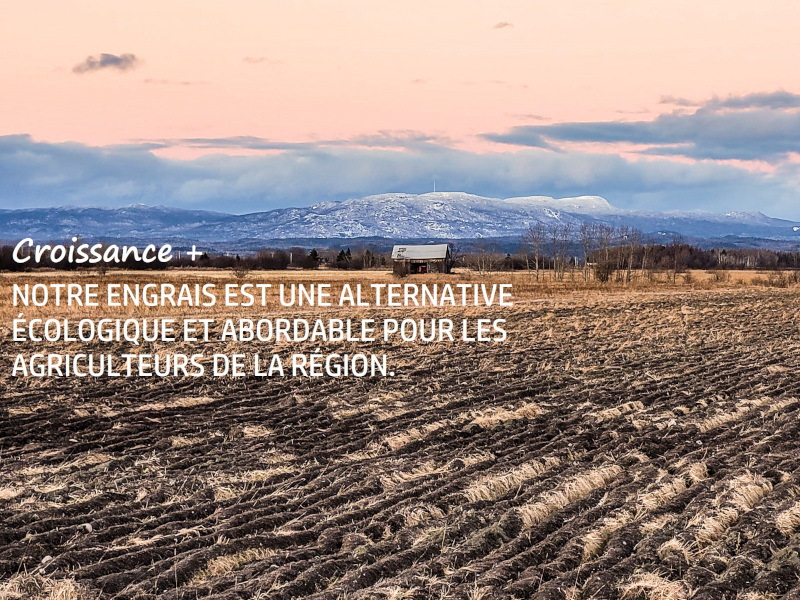
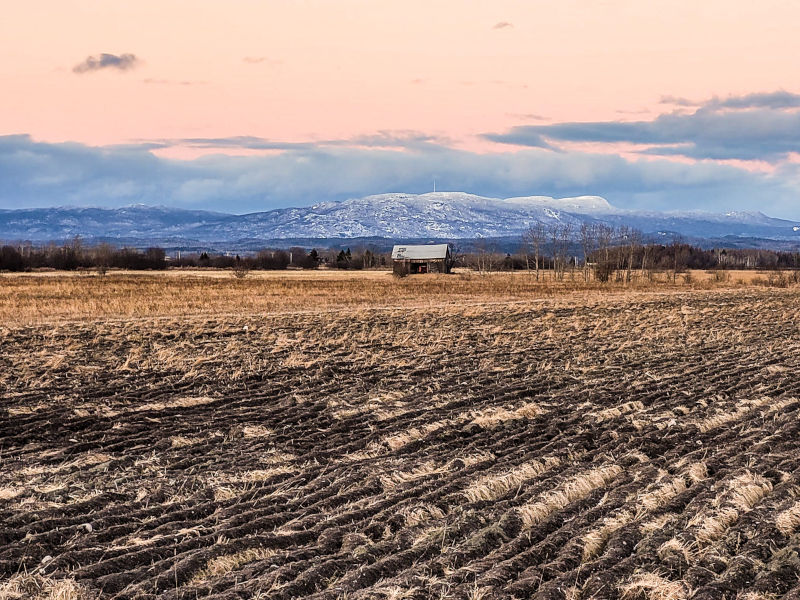
add new images, still missing one product image. Add new carousel part.

Changed region(s): [[0.0, 0.39, 0.6562, 0.63]]

diff --git a/index.html b/index.html
@@ -117,9 +117,9 @@
           <div class="container">
             <div class="row justify-content-start">
               <div class="col-lg-8">
-                <p class="text-primary text-uppercase fw-bold mb-2">
+                <!-- <p class="text-primary text-uppercase fw-bold mb-2">
                   // Recyclage de Gypse
-                </p>
+                </p> -->
                 <h1 class="display-1 text-light mb-4 animated slideInDown">
                   Revaloriser la matière, une solution durable.
                 </h1>
@@ -132,22 +132,21 @@
           </div>
         </div>
       </div>
-      <!-- <div class="owl-carousel-item position-relative">
+      <div class="owl-carousel-item position-relative">
                 <img class="img-fluid" src="img/carousel-2.jpg" alt="">
                 <div class="owl-carousel-inner">
                     <div class="container">
                         <div class="row justify-content-start">
                             <div class="col-lg-8">
-                                <p class="text-primary text-uppercase fw-bold mb-2">// The Best Bakery</p>
-                                <h1 class="display-1 text-light mb-4 animated slideInDown">We Bake With Passion</h1>
-                                <p class="text-light fs-5 mb-4 pb-3">Vero elitr justo clita lorem. Ipsum dolor sed stet
-                                    sit diam rebum ipsum.</p>
-                                <a href="" class="btn btn-primary rounded-pill py-3 px-5">Read More</a>
+                                <h1 class="display-1 text-light mb-4 animated slideInDown">Le respect de l'environnement, un engagement brillant.</h1>
+                                <!-- <p class="text-light fs-5 mb-4 pb-3">Vero elitr justo clita lorem. Ipsum dolor sed stet
+                                    sit diam rebum ipsum.</p> -->
+                                <a href="#about" class="btn btn-primary rounded-pill py-3 px-5">En savoir plus</a>
                             </div>
                         </div>
                     </div>
                 </div>
-            </div> -->
+            </div>
     </div>
   </div>
   <!-- Carousel End -->
